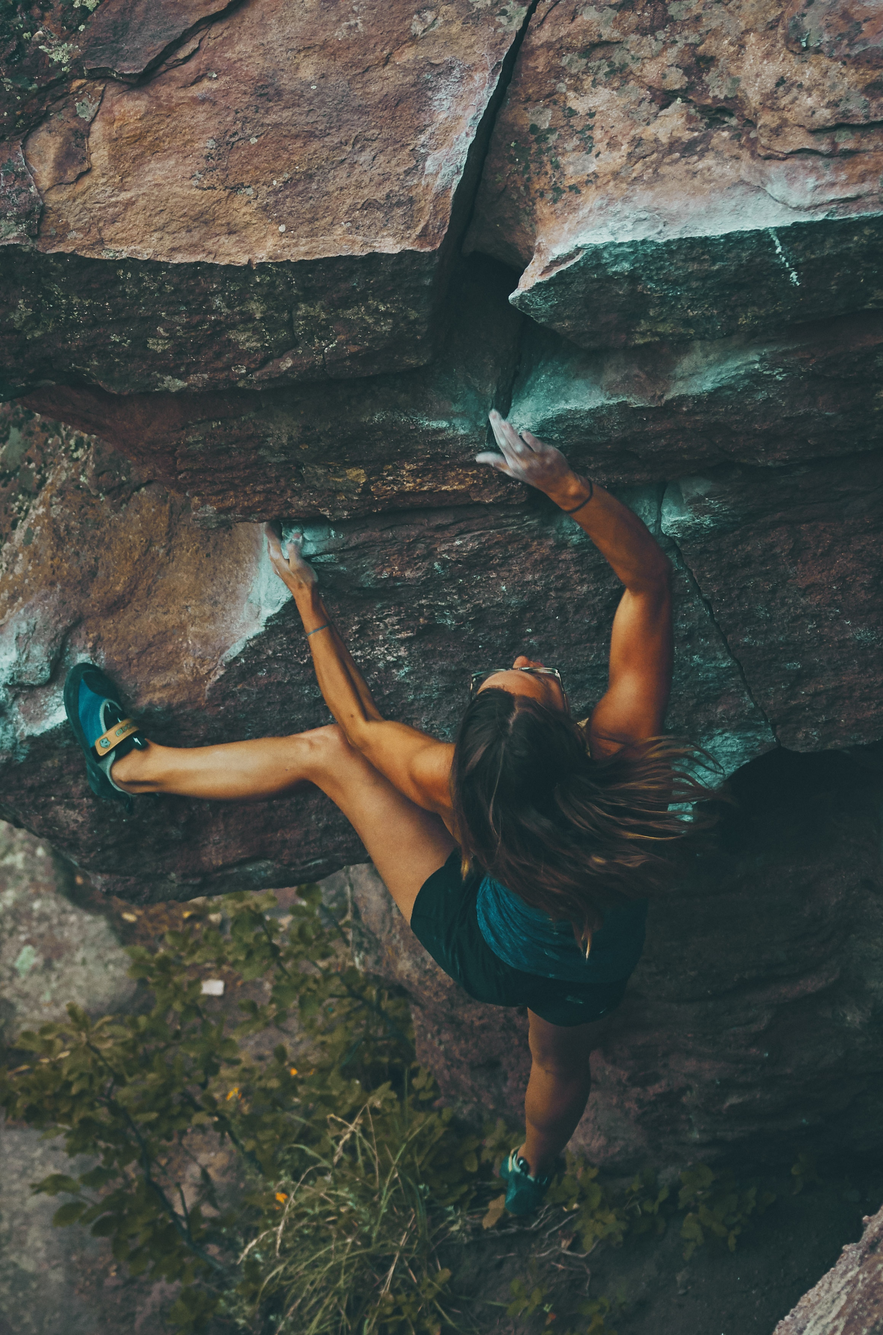
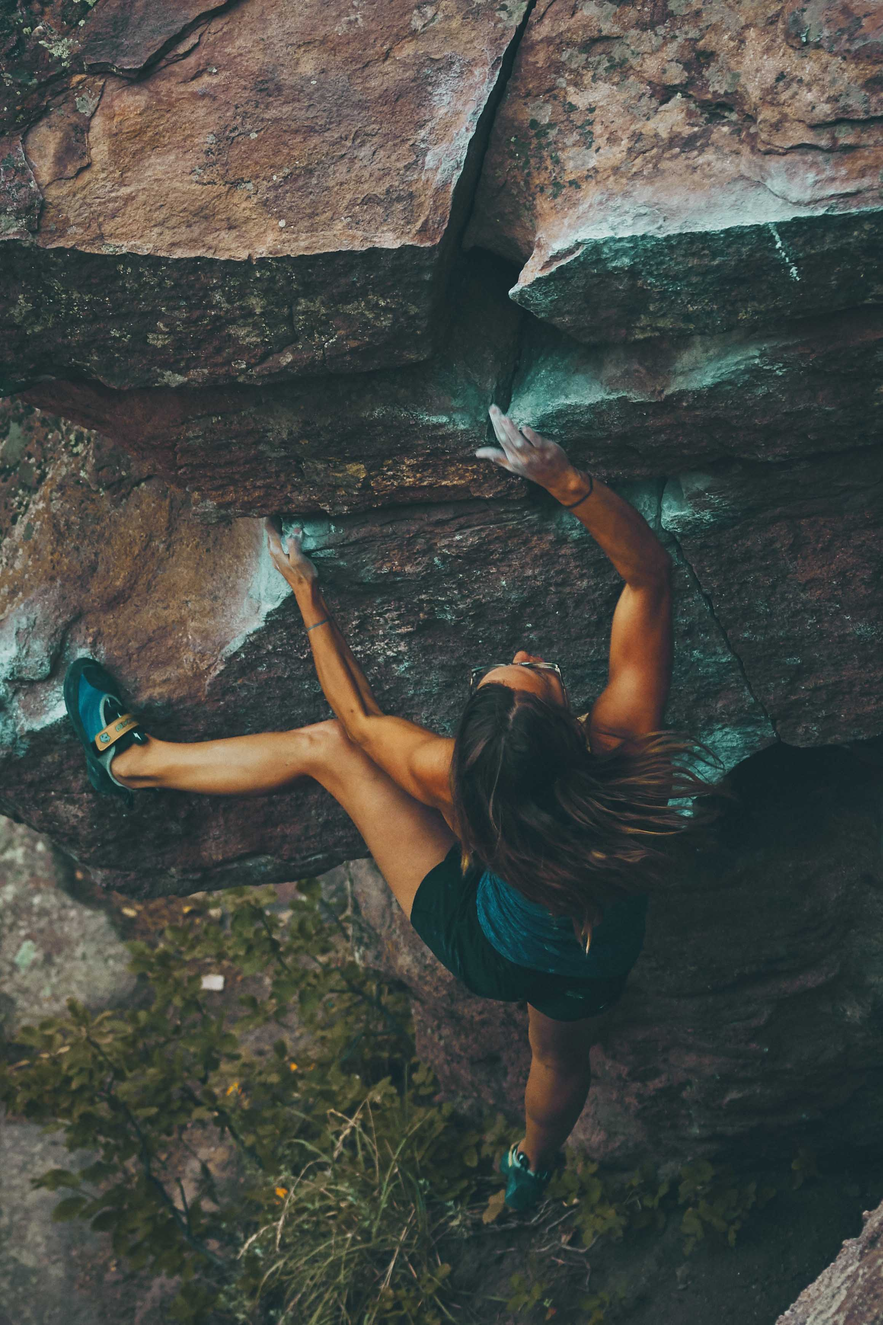
finished experience card styles

diff --git a/src/components/featuredExperience.js b/src/components/featuredExperience.js
@@ -14,106 +14,106 @@ export default class Experiences extends Component {
             <div className="card">
               
               <div className="card-content">
-                <h2>Desert Towers</h2>
+                <h2 className='card-title'>Desert <br></br> Towers</h2>
                 <img
-                src={require("../../static/assets/images/featuredExperience/card/cardTest.jpg")}/>
-                <div className='card-content__description'>
+                src={require("../../static/assets/images/featuredExperience/card/rockCard.jpg")}/>
+                {/* <div className='card-content__description'>
                     <h3>Rock Climbing</h3>    
                     <h4>Moab and Castle Valley</h4>
-                 </div>
+                 </div> */}
                  {/* <button className='discoverButton' component={ NavLink } to={'/testOne'}>Discover</button> */}
-                 <NavLink className='discoverButton' to={'/rockClimb'}>Discover</NavLink>
+                 <NavLink className='discoverButton' to={'/rockClimb'}>EXPLORE</NavLink>
               </div>
             </div>
             <div className="card">
               
               <div className="card-content">
-                <h2>The Narrows</h2>
+                <h2 className='card-title'>The <br></br> Narrows</h2>
                 <img
-                src={require("../../static/assets/images/featuredExperience/card/cardTest.jpg")}/>
-                <div className='card-content__description'>
+                src={require("../../static/assets/images/featuredExperience/card/hikingCard.jpg")}/>
+                {/* <div className='card-content__description'>
                     <h3>Hiking</h3>    
                     <h4>Zion's National Park</h4>
-                 </div>
-                 <NavLink className='discoverButton' to={'/hike'}>Discover</NavLink>
+                 </div> */}
+                 <NavLink className='discoverButton' to={'/hike'}>EXPLORE</NavLink>
               </div>
             </div>
             <div className="card">
               
               <div className="card-content">
-                <h2>The Whole Enchilada</h2>
+                <h2 className='card-title'>The<br></br> Whole <br></br> Enchilada</h2>
                 <img
-                src={require("../../static/assets/images/featuredExperience/card/cardTest.jpg")}/>
-                <div className='card-content__description'>
+                src={require("../../static/assets/images/featuredExperience/card/mountainBCard.jpg")}/>
+                {/* <div className='card-content__description'>
                     <h3>Mountain Biking</h3>    
                     <h4>La Sal, CO to Moab, UT</h4>
-                 </div>
-                 <NavLink className='discoverButton' to={'/mountainBike'}>Discover</NavLink>
+                 </div> */}
+                 <NavLink className='discoverButton' to={'/mountainBike'}>EXPLORE</NavLink>
               </div>
             </div>
             <div className="card">
               
               <div className="card-content">
-                <h2>Bridal Veil Falls</h2>
+                <h2 className='card-title'>Bridal<br></br> Veil<br></br> Falls</h2>
                 <img
-                src={require("../../static/assets/images/featuredExperience/card/cardTest.jpg")}/>
-                <div className='card-content__description'>
+                src={require("../../static/assets/images/featuredExperience/card/mountaineeringCard.jpg")}/>
+                {/* <div className='card-content__description'>
                     <h3>Ice Climbing</h3>    
                     <h4>Provo Canyon</h4>
-                 </div>
-                 <NavLink className='discoverButton' to={'/mountaineering'}>Discover</NavLink>
+                 </div> */}
+                 <NavLink className='discoverButton' to={'/mountaineering'}>EXPLORE</NavLink>
               </div>
             </div>
             <div className="card">
               
               <div className="card-content">
-                <h2>Paddle Lake Powell</h2>
+                <h2 className='card-title'>Paddle <br></br>Lake <br></br>Powell</h2>
                 <img
-                src={require("../../static/assets/images/featuredExperience/card/cardTest.jpg")}/>
-                <div className='card-content__description'>
+                src={require("../../static/assets/images/featuredExperience/card/paddleCard.jpg")}/>
+                {/* <div className='card-content__description'>
                     <h3>Stand Up Paddleboard</h3>    
                     <h4>Lake Powell</h4>
-                 </div>
-                 <NavLink className='discoverButton' to={'/paddle'}>Discover</NavLink>
+                 </div> */}
+                 <NavLink className='discoverButton' to={'/paddle'}>EXPLORE</NavLink>
               </div>
             </div>
             <div className="card">
               
               <div className="card-content">
-                <h2>Green River</h2>
+                <h2 className='card-title'>Green <br></br>River</h2>
                 <img
-                src={require("../../static/assets/images/featuredExperience/card/cardTest.jpg")}/>
-                <div className='card-content__description'>
+                src={require("../../static/assets/images/featuredExperience/card/riverCard.jpg")}/>
+                {/* <div className='card-content__description'>
                     <h3>Rafting</h3>    
                     <h4>Desolation Canyon</h4>
-                 </div>
-                 <NavLink className='discoverButton' to={'/river'}>Discover</NavLink>
+                 </div> */}
+                 <NavLink className='discoverButton' to={'/river'}>EXPLORE</NavLink>
               </div>
             </div>
             <div className="card">
               
               <div className="card-content">
-                <h2>Mirror Lake Highway </h2>
+                <h2 className='card-title'>Mirror<br></br> Lake <br></br> Highway </h2>
                 <img
-                src={require("../../static/assets/images/featuredExperience/card/cardTest.jpg")}/>
-                <div className='card-content__description'>
+                src={require("../../static/assets/images/featuredExperience/card/roadBCard.jpg")}/>
+                {/* <div className='card-content__description'>
                     <h3>Road Bike</h3>    
                     <h4>Kamas-Park City</h4>
-                 </div>
-                 <NavLink className='discoverButton' to={'/roadBike'}>Discover</NavLink>
+                 </div> */}
+                 <NavLink className='discoverButton' to={'/roadBike'}>EXPLORE</NavLink>
               </div>
             </div>
             <div className="card">
               
               <div className="card-content">
-                <h2>Ski Mt Superior</h2>
+                <h2 className='card-title'>Ski <br></br> Mt <br></br>Superior</h2>
                 <img
-                src={require("../../static/assets/images/featuredExperience/card/cardTest.jpg")}/>
-                <div className='card-content__description'>
+                src={require("../../static/assets/images/featuredExperience/card/skiCard.jpg")}/>
+                {/* <div className='card-content__description'>
                     <h3>Backcountry Skiing</h3>    
                     <h4>Little CottonWood Canyon</h4>
-                 </div>
-                 <NavLink className='discoverButton' to={'/ski'}>Discover</NavLink>
+                 </div> */}
+                 <NavLink className='discoverButton' to={'/ski'}>EXPLORE</NavLink>
               </div>
             </div>
           </section>

diff --git a/src/style/experiences.scss b/src/style/experiences.scss
@@ -15,7 +15,7 @@
   overflow-x: auto;
   overflow-y: hidden;
   white-space: nowrap;
-  padding: 20px 30px ;
+  padding: 30px 30px ;
 }
 
 .horizontal-scroll::-webkit-scrollbar {
@@ -28,9 +28,9 @@
   height: 75vh;
   border: none;
   text-align: center;
-    // padding: 10px;
+  // padding: 10px;
   font-size: 20px;
-  transition: all .2s ease-in-out;
+  transition: all .3s ease-in-out;
   
 
 
@@ -43,25 +43,38 @@
       width: 100%;
       height: 100%;
     }
-    h2 {
-      position: absolute;
 
-      color: white;
-      top: 5%;
-    }
-    .card-content__description {
-      position: absolute;
-      color: white;
-      bottom: 15%;
-    }
+    // .card-content__description {
+    //   position: absolute;
+    //   font-family: 'Raleway', sans-serif;
+    //   color: white;
+    //   bottom: 15%;
+    // }
   }
+}
+
+.card-title {
+
+  position: absolute;
+  // background-color: rgba(0, 0, 0, 0.74);
+  // width: 80%;
+  text-align: left;
+  left: 5%;
+  font-family: 'Raleway', sans-serif;
+  text-transform: uppercase;
+  word-wrap: break-word;
+  font-weight: 900;
+  font-size: 2.8em;
+  color: white;
+  top: 15%;
 }
 
 .discoverButton {
     position: absolute;
     bottom: 5%;
-    background-color: yellow;
-    color: gray;
+    // background-color: yellow;
+    outline: 2px solid white;
+    color: white;
     font-size: 1.5rem;
     border: none;
     cursor: pointer;
@@ -69,17 +82,22 @@
 
     transition: 0.3s all ease-in-out;
 
+    font-family: 'Raleway', sans-serif;
+    font-weight: 900;
+
 }
 
 .discoverButton:hover, .discoverButton:focus {
-    background-color: gray;
+    background-color: white;
     outline: none;
     border: 0;
     text-decoration: none;
-    color: red;
+    outline: 2px solid white;
+    color: rgb(46, 46, 46);
 
 }
 
 .card:hover {
     transform: scale(1.1);
+    z-index: 1;
   }

diff --git a/static/index.html b/static/index.html
@@ -6,6 +6,7 @@
   <meta http-equiv="X-UA-Compatible" content="IE=edge">
   <link href="https://fonts.googleapis.com/css?family=Montserrat" rel="stylesheet">
   <link href="https://fonts.googleapis.com/css?family=Abril+Fatface|News+Cycle:400,700&display=swap" rel="stylesheet">
+  <link href="https://fonts.googleapis.com/css?family=Raleway:900|Roboto&display=swap" rel="stylesheet">
   <title>Adventure Seekers</title>
 </head>
 
